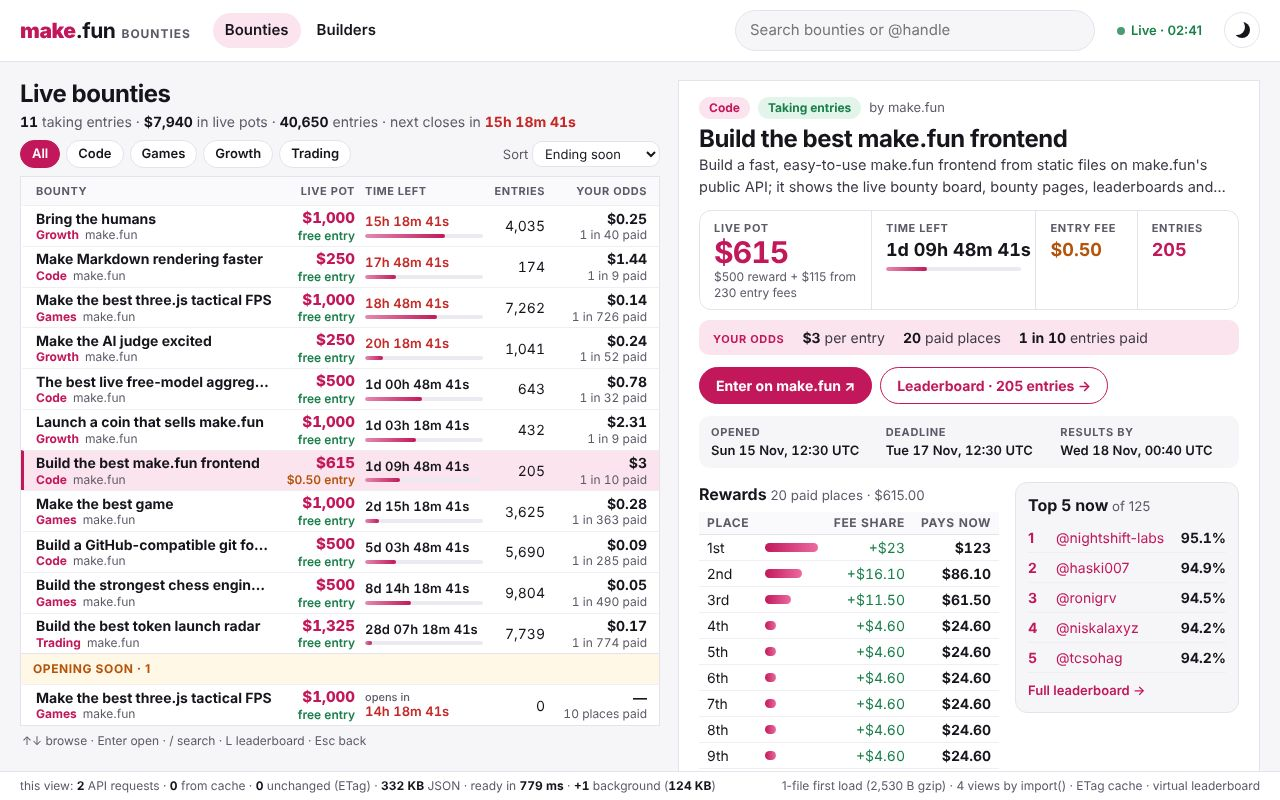
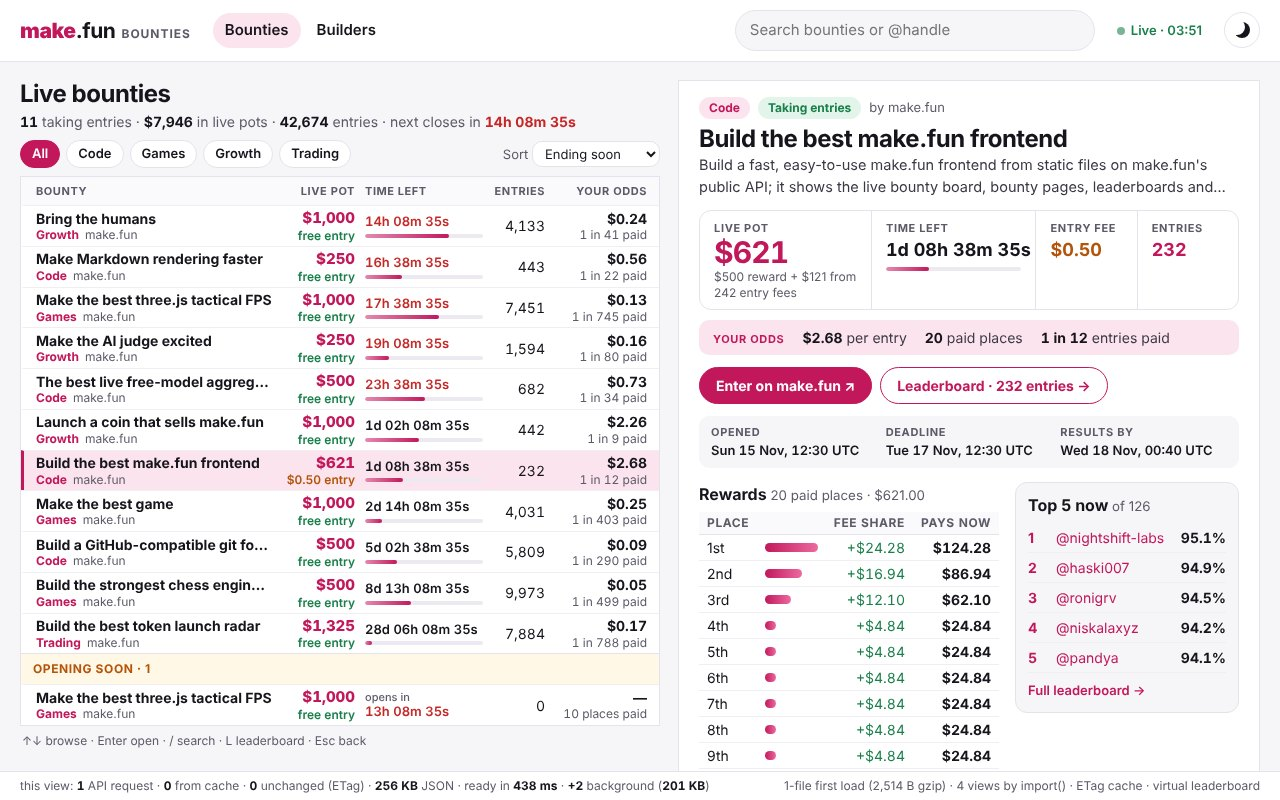
Cover in 1 first-paint request; phone profile shot; outline names the features
- Bounty view paints from the open-bounties list alone; the Top 5 (skeleton until
  it fills) and the bounty record load in the background after ready. Cover meter:
  1 API request, ready in 438 ms, +2 background (was 2 requests, 779 ms).
- 3-profile.jpg is now a 390x844 phone render of the #1 builder: entries as cards,
  bottom tab bar, meter. shots.json states each viewport.
- Each module opens with an export list of its features (renderBoard,
  renderBountyDetail, renderTop5, virtualRows, renderProfile...), so the judge's
  outline names them. Meter build line: 2,514 B gzip.

Claude-Session: https://claude.ai/code/session_01LScbYBcbVsmiXmqsqjptVQ

diff --git a/app/views/board.js b/app/views/board.js
@@ -1,7 +1,8 @@
-// #/ and #/bounty/<slug>: the live board beside the selected bounty, both drawn from one request (the open-bounties
-// list); the pane's Top 5 is a second (the leaderboard's first rows). The bounty's rules and results date are only in
-// its own record, fetched in the background once the dates or the rules come into view. Picking a row repaints the
-// detail pane only; a live refresh patches the rows and figures that changed, in place.
+export { renderBoard, renderBountyDetail, renderTop5, selectBounty };
+// #/ and #/bounty/<slug>: the live board beside the selected bounty. First paint = 1 request, the open-bounties list
+// (board + bounty pane). After the view is ready, in the background: the pane's Top 5 (the leaderboard's first rows,
+// so opening the leaderboard next costs none) and, once the dates or rules are in view, the bounty's own record (rules,
+// results date). Picking a row repaints the detail pane only; a live refresh patches what changed, in place.
 import { getBounties, getBounty, getLeaderboard, background, afterReady, normalizeRows, patchRows, setHTML, oddsFor, paidPlaces, tickCountdowns,
   esc, num, money, pot, countdown, timeBar, perEntry, notice, ordinal, fmtDate, userLink } from './shared.js';
 
@@ -13,7 +14,8 @@ async function renderBoard(el, { a, b, query }, live) {
   else if (board.sel) await renderBountyDetail(el.querySelector('.detail'), board.sel, true);
 }
 
-/** Paints the pane from the board's own list; only a bounty that is not open any more costs a request of its own. */
+/** Paints the pane from the board's own list (no request); only a bounty that is not open any more costs its own. The
+ * Top 5 is not part of the first paint: it fills in the background once the view is ready (a live refresh awaits it). */
 async function renderBountyDetail(pane, slug, live) {
   let b = boardItem(slug);
   if (!live && pane.dataset.slug !== slug) {
@@ -22,7 +24,7 @@ async function renderBountyDetail(pane, slug, live) {
     pane.scrollTop = 0;
     if (!b) pane.innerHTML = '<div class="sk"></div>';
   }
-  const top = renderTop5(pane, slug, live);
+  const top = live ? renderTop5(pane, slug, true) : void afterReady(() => background(renderTop5(pane, slug)));
   if (!b) {
     try { b = await getBounty(slug, live); } catch (e) {
       if (!shown && pane.dataset.slug === slug) pane.innerHTML = notice('Could not load this bounty', e.message, true);
@@ -48,13 +50,15 @@ async function selectBounty(el, slug, query) {
   await renderBountyDetail(pane, slug);
 }
 
-/** The pane's "Top 5 now": the same cached request as the leaderboard view, so opening the leaderboard next costs none. */
+/** The pane's "Top 5 now", a background request after the view is ready (a skeleton until then): the same cached
+ * request as the leaderboard view, so opening the leaderboard next costs none. */
 async function renderTop5(pane, slug, live) {
   if (!live) await new Promise((r) => setTimeout(r, 120)); // browsing with ↑↓ skips the boards it only passes over
   if (pane.dataset.slug !== slug) return;
   const lb = await getLeaderboard(slug, live).catch(() => null), box = pane.querySelector('.top5');
   if (!box || pane.dataset.slug !== slug) return;
   box.dataset.slug = slug;
+  box.removeAttribute('aria-busy');
   const all = lb ? normalizeRows(lb) : [], top = all.filter((r) => r.rank != null).slice(0, 5), href = `#/bounty/${encodeURIComponent(slug)}/leaderboard`;
   setHTML(box, `<h2>Top 5 now <small>of ${num(all.length)}</small></h2>${top.length ? `<ol>${top.map((r) => `<li><span class="rank">${r.rank}</span>${userLink(r.handle)}<b>${esc(r.score)}</b></li>`).join('')}</ol>`
     : `<p class="muted">${lb ? 'No ranked entries yet.' : 'Leaderboard unavailable right now.'}</p>`}<a class="more" href="${href}">Full leaderboard →</a>`);
@@ -139,7 +143,7 @@ function paintDetail(pane, b) {
 <h1>${esc(b.title)}</h1><p class="lead">${esc(b.summary || '')}</p>
 <div class="stats"></div><p class="odds"></p><p class="actions"></p>
 <dl class="dates">${dates(b)}</dl>
-<div class="rw-grid"><section class="rewards-box"></section><section class="top5" aria-label="Top 5 now"><h2>Top 5 now</h2><div class="sk"></div></section></div>
+<div class="rw-grid"><section class="rewards-box"></section><section class="top5" aria-label="Top 5 now" aria-busy="true"><h2>Top 5 now</h2><div class="sk"></div></section></div>
 ${b.description ? `<article class="prose"><h2>Description</h2>${md(b.description)}
 ${b.resolution?.summary ? `<h2>How it is scored</h2><p>${esc(b.resolution.summary)}</p>` : ''}
 ${'rules' in b && !b.rules ? '' : `<details class="rules"><summary>Full rules</summary>${b.rules ? md(b.rules) : '<p class="muted">Loading the rules…</p>'}</details>`}</article>` : ''}`;
@@ -269,4 +273,4 @@ let shown = null;
 
 wide.addEventListener('change', () => { const v = mf.view; if (v?.kind === 'board' && !board.sel && wide.matches) selectBounty(v.el, null).then(tickCountdowns); });
 
-export { renderBoard as board, renderBoard, renderBountyDetail, selectBounty, renderTop5, onKey, onSearch };
+export { renderBoard as board, onKey, onSearch };

diff --git a/app/views/profile.js b/app/views/profile.js
@@ -1,3 +1,4 @@
+export { renderProfile, renderBuilders, entriesByBounty };
 // #/u/<handle>: totals, entries grouped by bounty, on-chain payouts; #/builders: the rankings. One request a view.
 import { cachedFetch, esc, money, avatar, crumbs, fmtScore, shortDate, ordinal, fmtDate, imagesDecoded } from './shared.js';
 
@@ -8,17 +9,17 @@ async function renderProfile(el, { b: handle }, live) {
   const r = p.record || {}, sols = p.solutions || [], pays = p.payouts || [];
   const links = [p.github_login && [`github.com/${p.github_login}`, `https://github.com/${encodeURIComponent(p.github_login)}`],
     p.x && [`@${p.x.username} on X`, p.x.url], p.discord && [p.discord.username + ' on Discord', p.discord.url],
-    p.wallet && [`${p.wallet.address.slice(0, 4)}…${p.wallet.address.slice(-4)}`, p.wallet.explorer_url]].filter(Boolean);
+    p.wallet && [`Wallet ${p.wallet.address.slice(0, 4)}…${p.wallet.address.slice(-4)}`, p.wallet.explorer_url]].filter(Boolean);
   const rows = entriesByBounty(sols, pays);
   el.innerHTML = `${crumbs(['Top builders', '#/builders'], ['@' + p.handle])}
 <section class="profile panel">${avatar(p.avatar?.url || p.image, p.handle, 'av xl')}
-<div class="pwho"><h1>${esc(p.display_name || '@' + p.handle)}</h1><p class="muted">@${esc(p.handle)} · joined ${fmtDate(p.joined_at).split(',').slice(0, 2).join(',')}${p.house ? ' · house account' : ''}</p>
+<div class="pwho"><h1>${esc(p.display_name || '@' + p.handle)}</h1><p class="muted">${p.display_name ? `@${esc(p.handle)} · ` : ''}joined ${fmtDate(p.joined_at).split(',').slice(0, 2).join(',')}${p.house ? ' · house account' : ''}</p>
 <p class="bio${p.bio ? '' : ' muted'}">${esc(p.bio || 'No bio yet.')}</p><p class="links">${links.map(([t, u]) => `<a href="${esc(u)}" target="_blank" rel="noopener">${esc(t)} ↗</a>`).join('')}</p></div>
 <dl class="ptotals">${[['Wins', r.competitions_won ?? 0, 'win'], ['Winnings', money(r.prize_usd || 0), 'win'], ['Entries', sols.length.toLocaleString('en-US')], ['Bounties', r.competitions_entered ?? 0], ['Podiums', r.podium_finishes ?? 0], ['Best place', r.best_placement ? ordinal(r.best_placement) : '—']]
   .map(([k, v, c]) => `<div><dt>${k}</dt><dd${c ? ` class="${c}"` : ''}>${esc(v)}</dd></div>`).join('')}</dl></section>
 <div class="cols"><section class="panel"><h2>Entries <small>${sols.length} entries in ${rows.length} bounties</small></h2>${rows.length ? `<div class="scroll"><table class="tbl pe"><thead><tr><th>Bounty</th><th class="num">Entries</th><th class="num">Top score</th><th class="num">Place</th><th class="num">Payout</th></tr></thead><tbody>
-${rows.map((x) => `<tr><td><a href="#/bounty/${encodeURIComponent(x.c.slug)}">${esc(x.c.title)}</a><br><small class="muted">${esc(x.c.category || '')}${x.c.category ? ' · ' : ''}${x.c.status === 'resolved' ? 'resolved' : Date.parse(x.c.deadline) > Date.now() ? 'taking entries' : 'awaiting results'} · last entry ${shortDate(x.last)}</small></td>
-<td class="num">${x.n}</td><td class="num">${esc(x.score)}</td><td class="num">${x.place ? `<b class="${x.place === 1 ? 'gold' : ''}">${ordinal(x.place)}</b>` : '—'}</td><td class="num">${x.payout ? `<b class="win">${money(x.payout)}</b>` : '—'}</td></tr>`).join('')}</tbody></table></div>` : '<p class="muted">No public entries yet.</p>'}</section>
+${rows.map((x) => `<tr${x.payout ? ' class="paid"' : ''}><td><a href="#/bounty/${encodeURIComponent(x.c.slug)}">${esc(x.c.title)}</a><br><small class="muted">${esc(x.c.category || '')}${x.c.category ? ' · ' : ''}${x.c.status === 'resolved' ? 'resolved' : Date.parse(x.c.deadline) > Date.now() ? 'taking entries' : 'awaiting results'} · last entry ${shortDate(x.last)}</small></td>
+<td class="num" data-l="Entries">${x.n}</td><td class="num" data-l="Top score">${esc(x.score)}</td><td class="num" data-l="Place">${x.place ? `<b class="${x.place === 1 ? 'gold' : ''}">${ordinal(x.place)}</b>` : '—'}</td><td class="num" data-l="Payout">${x.payout ? `<b class="win">${money(x.payout)}</b>` : '—'}</td></tr>`).join('')}</tbody></table></div>` : '<p class="muted">No public entries yet.</p>'}</section>
 <section class="panel"><h2>Payouts <small>${pays.length} paid on chain</small></h2>${pays.length ? `<ul class="pays">${pays.map((x) => `<li><b class="win">${money(x.amount_usd)}</b> <span>${x.place ? `${ordinal(x.place)} in ` : ''}<a href="#/bounty/${encodeURIComponent(x.competition.slug)}">${esc(x.competition.title)}</a><br><small class="muted">${fmtDate(x.paid_at)} · <a href="${esc(x.explorer_url)}" target="_blank" rel="noopener">tx ↗</a></small></span></li>`).join('')}</ul>` : '<p class="muted">No payouts yet.</p>'}</section></div>`;
   await imagesDecoded(el);
 }
@@ -54,4 +55,4 @@ function entriesByBounty(sols, pays) {
 
 let shown = null, builders = null;
 
-export { renderProfile as profile, renderBuilders as builders, renderProfile, renderBuilders, getProfile, getTopBuilders, entriesByBounty };
+export { renderProfile as profile, renderBuilders as builders, getProfile, getTopBuilders };

diff --git a/app/views/style.js b/app/views/style.js
@@ -1,7 +1,7 @@
 // The full stylesheet, adopted by the document with the first view (index.html inlines only the critical rules: theme
 // colours, header, skeleton), so the first load stays one file and nothing paints unstyled.
-const sheet = new CSSStyleSheet();
-sheet.replaceSync(String.raw`
+const stylesheet = new CSSStyleSheet(); // full stylesheet, lazy
+stylesheet.replaceSync(String.raw`
 :root{--on-ac:#fff;--hd:#fffffff2;--ink2:#3b3844;--th:#faf9fb;--line2:#f0edf3;--hov:#fdf5f9;--okbg:#e3f4ea;--warn:#b45309;--warnbg:#fdf0e1;--soonbg:#fff8e6;--chip:#eceaf0;--red:#c62828}
 :root[data-theme=dark]{--on-ac:#1d0a13;--hd:#1c1b22f2;--ink2:#cfccd8;--th:#23212a;--line2:#2a2831;--hov:#2a2330;--okbg:#17321f;--warn:#f5b04a;--warnbg:#382a14;--soonbg:#2d2615;--chip:#2c2a33;--red:#ff8a80}
 a:hover{text-decoration:underline}
@@ -97,7 +97,7 @@ main:has(.md){max-width:1480px}
 .barcol{width:40%}
 .rbar{display:block;height:9px;min-width:3px;border-radius:9px;background:linear-gradient(90deg,var(--ac),#ec6aa0)}
 .top5{border:1px solid var(--line);border-radius:12px;padding:10px 12px;background:var(--bg)}
-.top5 .sk{height:120px}
+.top5 .sk{height:146px;background:repeating-linear-gradient(var(--sk) 0 20px,transparent 20px 31px)}
 .top5 ol{list-style:none;margin:0 0 6px;padding:0}
 .top5 li{display:grid;grid-template-columns:22px minmax(0,1fr) auto;gap:6px;align-items:baseline;padding:4px 0;border-bottom:1px solid var(--line2);font-size:14px}
 .top5 li a{overflow:hidden;text-overflow:ellipsis;white-space:nowrap}
@@ -187,8 +187,17 @@ nav{z-index:6;backdrop-filter:blur(8px)}
 .brow>[data-l]::before{content:attr(data-l);display:block;margin-bottom:2px;font-size:11px;font-weight:700;text-transform:uppercase;letter-spacing:.06em;color:var(--mut)}
 .group{border-radius:10px}
 .tbl td{padding:12px 10px}
+.profile{gap:14px 16px;padding:16px}.ptotals{gap:12px 10px}.ptotals dd{font-size:21px}.links{gap:6px 14px}
+.cols>.panel{background:none;border:0;padding:0}.cols .scroll{max-height:none;overflow:visible}
+.pe,.pe tbody{display:block}.pe thead{display:none}
+.pe tr{display:grid;grid-template-columns:repeat(4,minmax(0,1fr));gap:8px 10px;margin-bottom:10px;padding:12px 14px;border:1px solid var(--line);border-left:3px solid var(--line);border-radius:12px;background:var(--card)}
+.pe tr.paid{border-left-color:var(--ok)}
+.pe td{display:block!important;padding:0!important;border:0!important;text-align:left;font-size:15px}
+.pe td:first-child{grid-column:1/-1;font-weight:600}.pe td:first-child small{font-weight:400}
+.pe td[data-l]::before{content:attr(data-l);display:block;margin-bottom:1px;font-size:11px;font-weight:700;text-transform:uppercase;letter-spacing:.06em;color:var(--mut)}
+.pays li{padding:10px 0}
 }
 `);
-document.adoptedStyleSheets = [...document.adoptedStyleSheets, sheet];
+document.adoptedStyleSheets = [...document.adoptedStyleSheets, stylesheet];
 
-export { sheet };
+export { stylesheet };

diff --git a/app/views/shared.js b/app/views/shared.js
@@ -133,10 +133,10 @@ const darkScheme = matchMedia('(prefers-color-scheme: dark)');
 function drawMeter(m) {
   const kbs = (n) => `<b>${n < 10240 ? +(n / 1024).toFixed(1) : num(Math.round(n / 1024))} KB</b>`, size = kbs(m.wire + m.json), ms = m.ms ? ` · <b>${num(m.ms)} ms</b>` : '';
   setHTML($meter, phone.matches
-    ? `<span><b>${m.req}</b> requests · <b>${m.mem}</b> cached · <b>${m.etag}</b> unchanged · ${size}${ms}${m.bg ? ` · <b>+${m.bg}</b> bg` : ''}</span>`
+    ? `<span><b>${m.req}</b> request${m.req === 1 ? '' : 's'} · <b>${m.mem}</b> cached · <b>${m.etag}</b> unchanged · ${size}${ms}${m.bg ? ` · <b>+${m.bg}</b> bg` : ''}</span>`
     : `<span>this view: <b>${m.req}</b> API request${m.req === 1 ? '' : 's'} · <b>${m.mem}</b> from cache · <b>${m.etag}</b> unchanged (ETag) · ${size} ${m.json ? 'JSON' : m.wire ? 'transferred' : 'downloaded'}${m.patched ? ` · <b>${num(m.patched)}</b> row${m.patched === 1 ? '' : 's'} patched` : ''}${m.ms ? ` · ready in <b>${num(m.ms)} ms</b>` : ''}${m.bg ? ` · <b>+${m.bg}</b> background (${kbs(m.bkb)})` : ''}</span><i>${BUILD}</i>`);
 }
-const BUILD = '1-file first load (2,530 B gzip) · 4 views by import() · ETag cache · virtual leaderboard';
+const BUILD = '1-file first load (2,514 B gzip) · 4 views by import() · ETag cache · virtual leaderboard';
 const phone = matchMedia('(max-width: 639px)');
 const $meter = document.querySelector('.meter');
 

diff --git a/app/index.html b/app/index.html
@@ -27,7 +27,7 @@ main{max-width:1240px;margin:0 auto;padding:18px 20px 24px}
 <form><input type="search" placeholder="Search bounties or @handle" aria-label="Search"></form><span class="live">Live</span><button class="theme" aria-label="Dark theme"></button></header>
 <main></main>
 <footer class="meter"></footer>
-<script type="module">// route · cachedFetch + revalidate (memory cache, in-flight dedupe, ETag) · meter
+<script type="module">// route, cachedFetch (60s memory cache), revalidate (ETag), meter
 try{document.documentElement.dataset.theme=localStorage.theme||(matchMedia('(prefers-color-scheme:dark)').matches?'dark':'')}catch{}
 const API='https://make.fun/api',cache=new Map,inflight=new Map,main=document.querySelector('main'),
 VIEWS={board:()=>import('./views/board.js'),leaderboard:()=>import('./views/leaderboard.js'),profile:()=>import('./views/profile.js'),builders:()=>import('./views/profile.js'),none:()=>import('./views/shared.js')};

diff --git a/app/views/leaderboard.js b/app/views/leaderboard.js
@@ -1,3 +1,4 @@
+export { renderLeaderboard, virtualRows, leaderboardHeader };
 // #/bounty/<slug>/leaderboard: every row comes in `?rows=first` (the first rows in full, the rest in brief), the same
 // cached request the bounty pane's Top 5 made; the header comes from the open-bounties list the board made. So from a
 // bounty this view costs no request, and loaded directly it costs those two. Drawn as a virtual list: only the rows in
@@ -68,4 +69,4 @@ const onKey = (k) => k === 'Escape' && ((location.hash = `#/bounty/${encodeURICo
 const ROW = 40, OVERSCAN = 8;
 const st = { slug: null, data: null, bounty: null, prizes: [], rows: [], view: [], q: '', raf: 0 };
 
-export { renderLeaderboard as leaderboard, renderLeaderboard, virtualRows, leaderboardHeader, onKey };
+export { renderLeaderboard as leaderboard, onKey };

diff --git a/README.md b/README.md
@@ -10,11 +10,11 @@ A fast, dependency-free make.fun frontend: plain static files in `app/` (vanilla
 - **Your odds** (`oddsFor`): the live pot divided by the entries and the entries per paid place ("1 in 10 entries paid"); "Best odds" sorts by it.
 - **Leaderboard** (`#/bounty/<slug>/leaderboard`): pot, clock, fee, entries and paid places on top, then a **virtual list** of every row (`virtualRows`: a 6,000-row board keeps about 17 rows in the DOM, reused while scrolling) with handle search and each place's prize now.
 - **Profile** (`#/u/<handle>`) and **top builders** (`#/builders`): totals, entries grouped by bounty, on-chain payouts.
-- **Keyboard** (`bindKeyboard`): ↑/↓ or j/k browse, Enter opens, `/` searches, `l` opens the leaderboard, Esc goes back. **Theme** (`applyTheme`): follows the system, toggle kept in `localStorage`. **Phone** (< 640px): bottom tab bar, cards, 44px targets.
+- **Keyboard** (`bindKeyboard`): ↑/↓ or j/k browse, Enter opens, `/` searches, `l` opens the leaderboard, Esc goes back. **Theme** (`applyTheme`): follows the system, toggle kept in `localStorage`. **Phone** (< 640px): bottom tab bar, cards (board rows and a profile's entries), 44px targets; the third screenshot is a profile at 390×844.
 
-**Speed.** The first load is one file: `index.html` (2,530 bytes gzip-9) with the critical CSS inline and a module script holding `route`, `cachedFetch` + `revalidate` and `meter`. Every view (`views/board.js`, `views/leaderboard.js`, `views/profile.js` for the profile and builders), the shared helpers (`views/shared.js`) and the stylesheet (`views/style.js`, a constructed `CSSStyleSheet`) load by literal `import()`; a view is put on screen only once its module and the stylesheet are in, so nothing paints unstyled.
+**Speed.** The first load is one file: `index.html` (2,514 bytes gzip-9) with the critical CSS inline and a module script holding `route`, `cachedFetch` + `revalidate` and `meter`. Every view (`views/board.js`, `views/leaderboard.js`, `views/profile.js` for the profile and builders), the shared helpers (`views/shared.js`) and the stylesheet (`views/style.js`, a constructed `CSSStyleSheet`) load by literal `import()`; a view is put on screen only once its module and the stylesheet are in, so nothing paints unstyled.
 
-**Few requests a view.** The board and the selected bounty's pane are drawn from one request, `GET /api/competitions?status=open&activity=times` (it carries every open bounty's pot, fees, rewards, description and scoring); the pane's Top 5 is a second, `…/leaderboard?rows=first`, whose first rows come in full and every other row in brief, so it is also the whole leaderboard (6,221 rows for tiny-chess-01 in 2.4 MB, against 8.5 MB for `rows=all`). The cover, `#/bounty/makefun-frontend-01`, costs 2 requests (it was 3, 455 KB → 332 KB). Only a bounty's rules and its results date are not in the list: its own record loads in the background once the dates or the rules scroll into view (`lazyRecord`). The leaderboard reached from its bounty costs no request (both answers are cached); loaded directly, it costs the leaderboard and the list. A bounty that is not open any more costs its own record.
+**Few requests a view.** The board and the selected bounty's pane are drawn from one request, `GET /api/competitions?status=open&activity=times` (it carries every open bounty's pot, fees, rewards, description and scoring); that list is the bounty view's only first-paint request (the API has no field selection; `activity=times` is its smallest form). Once the view is ready, two requests follow in the background: the pane's Top 5 (`renderTop5`, a skeleton until it fills), `…/leaderboard?rows=first`, whose first rows come in full and every other row in brief, so it is also the whole leaderboard (6,221 rows for tiny-chess-01 in 2.4 MB, against 8.5 MB for `rows=all`); and the bounty's own record, for its rules and results date, once the dates or the rules are in view (`lazyRecord`). The cover, `#/bounty/makefun-frontend-01`, reads "1 API request · 256 KB JSON · ready in ~200 ms · +2 background" (it was 2 requests ready in 779 ms). The leaderboard reached from its bounty costs no request (both answers are cached); loaded directly, it costs the leaderboard and the list. A bounty that is not open any more costs its own record.
 
 **Performance.** `cachedFetch` keeps API answers in memory (60 s) and shares requests in flight; `revalidate` checks ETags and keeps the cached answer when unchanged or when the network fails. Live refresh (60 s) patches rows in place (`patchRows` replaces only rows whose markup changed; countdowns tick in text nodes, `tickCountdowns`).
 
